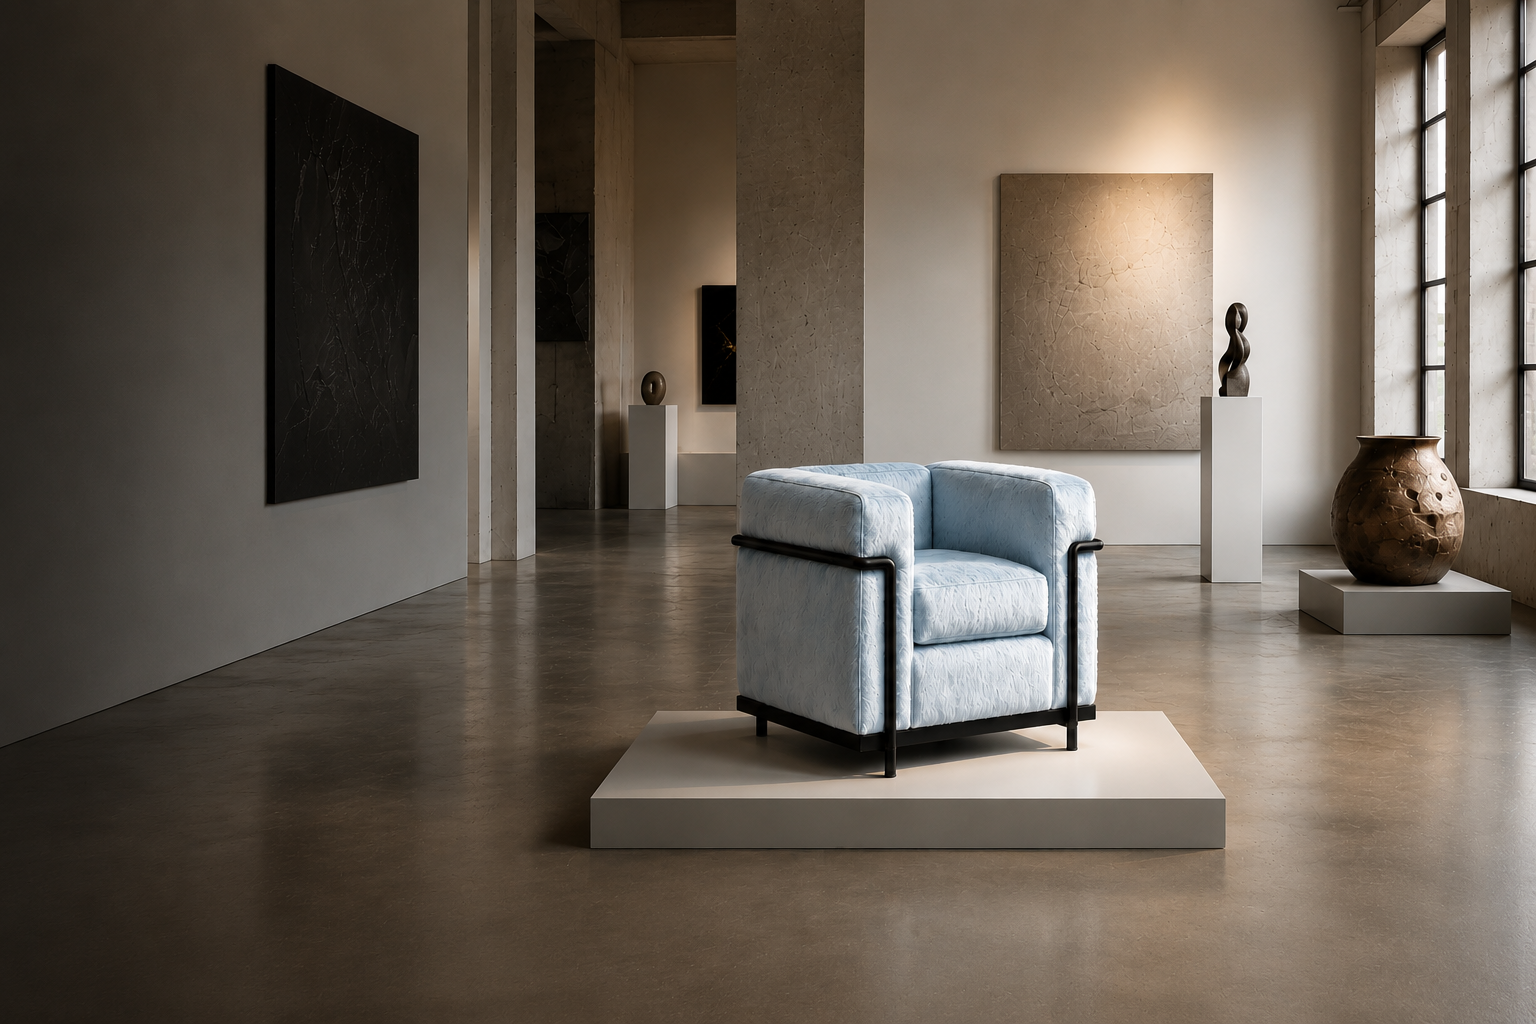
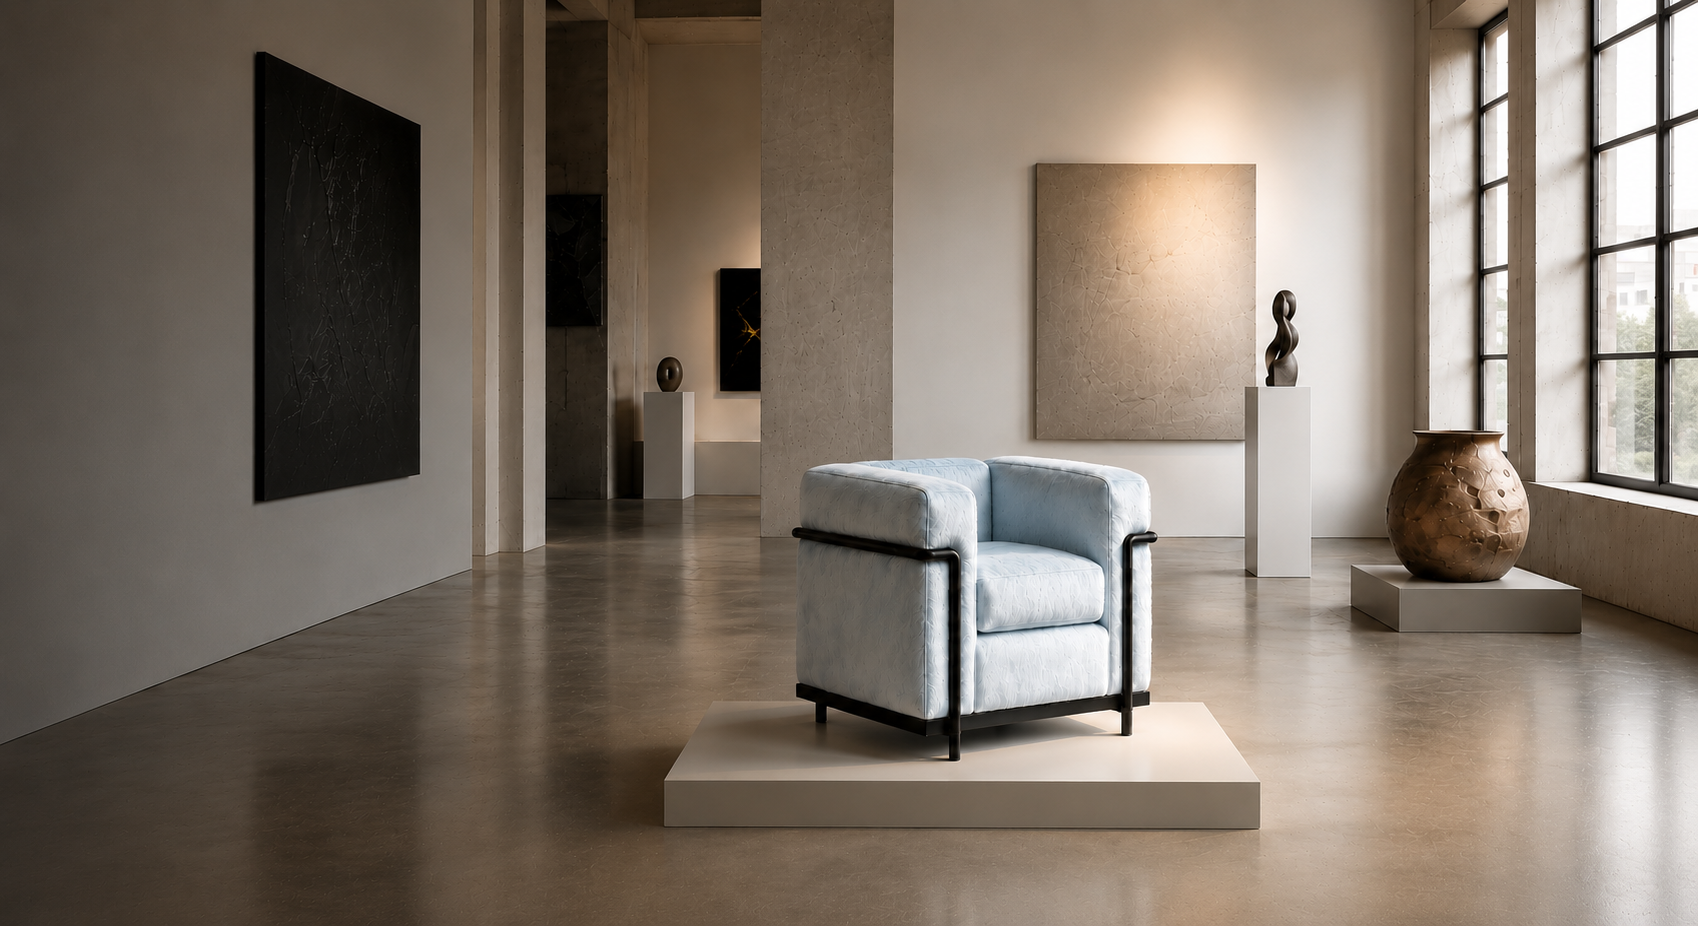
Integrate wide editorial hero asset full bleed

diff --git a/app/components/LocalizedHomePage.tsx b/app/components/LocalizedHomePage.tsx
@@ -54,18 +54,16 @@ export function LocalizedHomePage({ locale }: { locale: Locale }) {
   return (
     <main className="bg-[#f3f2ef]">
       <section className="bg-[#8d8376]">
-        <div className="overflow-hidden bg-[#8d8376] lg:flex lg:justify-center">
-          <div className="relative h-[760px] w-full md:h-[800px] lg:h-[calc(100vh-72px)] lg:max-h-[1024px] lg:w-fit lg:max-w-full">
+        <div className="relative h-[760px] w-full overflow-hidden bg-[#8d8376] md:h-[800px] lg:h-[calc(100svh-72px)] lg:min-h-[680px] lg:max-h-[960px]">
             <Image
               alt="GETYOUR.DESIGN interior context"
-              className="block h-full w-full object-cover object-[50%_48%] lg:w-auto lg:max-w-full lg:object-contain"
-              height={1024}
+              className="object-cover object-center"
+              fill
               priority
               sizes="100vw"
               src="/images/hero-editorial.png"
-              width={1536}
             />
-            <div className="absolute inset-0 bg-[linear-gradient(90deg,rgba(10,10,9,0.66)_0%,rgba(10,10,9,0.48)_24%,rgba(10,10,9,0.12)_40%,rgba(10,10,9,0)_50%)]" aria-hidden="true" />
+            <div className="absolute inset-0 bg-[linear-gradient(90deg,rgba(10,10,9,0.68)_0%,rgba(10,10,9,0.5)_24%,rgba(10,10,9,0.14)_43%,rgba(10,10,9,0)_55%)]" aria-hidden="true" />
             <div className="absolute left-6 right-6 top-28 z-10 max-w-[36rem] text-[#f3f2ef] md:left-12 md:right-auto md:top-36 lg:left-[6.8%] lg:top-[26%] lg:w-[42%] lg:max-w-[40rem] [@media_(min-width:1024px)_and_(max-height:900px)]:top-[24%]">
             <h1 className="serif text-balance text-[2.1rem] font-normal leading-[1.18] tracking-[0.02em] md:text-[2.5rem] lg:text-[2.65rem] xl:text-[2.78rem] [@media_(min-width:1024px)_and_(max-height:900px)]:!text-[2.36rem] [@media_(min-width:1024px)_and_(max-height:900px)]:!leading-[1.14]">
               {heroLines[0]}
@@ -103,7 +101,6 @@ export function LocalizedHomePage({ locale }: { locale: Locale }) {
               ))}
             </div>
             </div>
-          </div>
         </div>
       </section>
 

diff --git a/app/page.tsx b/app/page.tsx
@@ -206,18 +206,16 @@ export default function Home() {
   return (
     <main className="bg-[#f3f2ef]">
       <section className="bg-[#8d8376]">
-        <div className="overflow-hidden bg-[#8d8376] lg:flex lg:justify-center">
-          <div className="relative h-[760px] w-full md:h-[800px] lg:h-[calc(100vh-72px)] lg:max-h-[1024px] lg:w-fit lg:max-w-full">
+        <div className="relative h-[760px] w-full overflow-hidden bg-[#8d8376] md:h-[800px] lg:h-[calc(100svh-72px)] lg:min-h-[680px] lg:max-h-[960px]">
             <Image
               alt="Fotografie eines LC2-Sessels in architektonischem Interior-Kontext"
-              className="block h-full w-full object-cover object-[50%_48%] lg:w-auto lg:max-w-full lg:object-contain"
-              height={1024}
+              className="object-cover object-center"
+              fill
               priority
               sizes="100vw"
               src="/images/hero-editorial.png"
-              width={1536}
             />
-            <div className="absolute inset-0 bg-[linear-gradient(90deg,rgba(10,10,9,0.66)_0%,rgba(10,10,9,0.48)_24%,rgba(10,10,9,0.12)_40%,rgba(10,10,9,0)_50%)]" aria-hidden="true" />
+            <div className="absolute inset-0 bg-[linear-gradient(90deg,rgba(10,10,9,0.68)_0%,rgba(10,10,9,0.5)_24%,rgba(10,10,9,0.14)_43%,rgba(10,10,9,0)_55%)]" aria-hidden="true" />
             <div className="absolute left-6 right-6 top-28 z-10 max-w-[36rem] text-[#f3f2ef] md:left-12 md:right-auto md:top-36 lg:left-[6.8%] lg:top-[26%] lg:w-[42%] lg:max-w-[40rem] [@media_(min-width:1024px)_and_(max-height:900px)]:top-[24%]">
             <h1 className="serif text-balance text-[2.1rem] font-normal leading-[1.18] tracking-[0.02em] md:text-[2.5rem] lg:text-[2.65rem] xl:text-[2.78rem] [@media_(min-width:1024px)_and_(max-height:900px)]:!text-[2.36rem] [@media_(min-width:1024px)_and_(max-height:900px)]:!leading-[1.14]">
               Sagen Sie uns
@@ -257,7 +255,6 @@ export default function Home() {
               ))}
             </div>
             </div>
-          </div>
         </div>
       </section>
 
